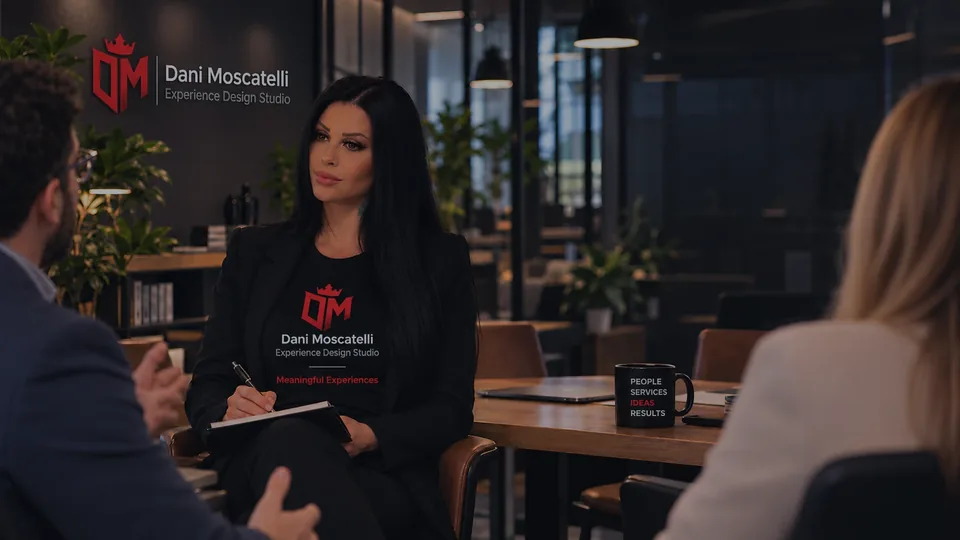
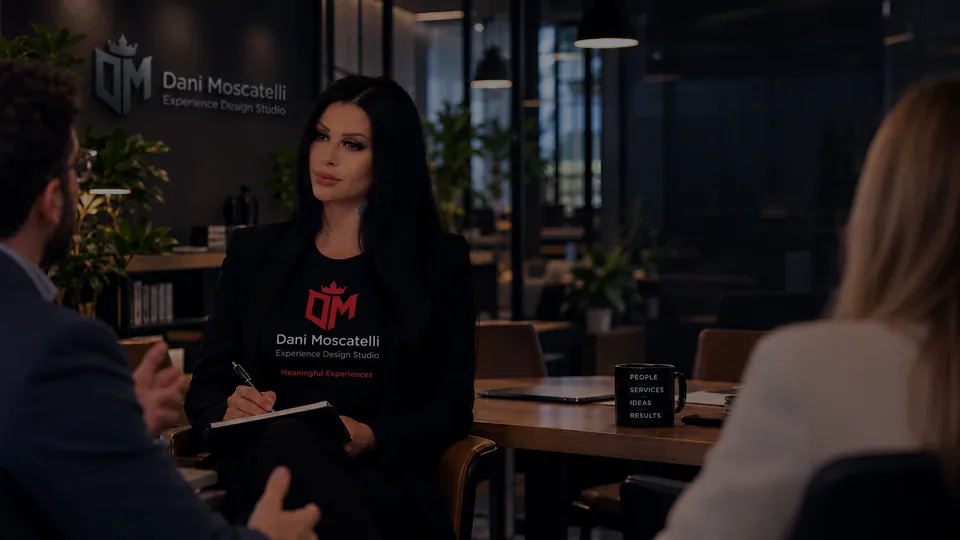
Projeto Piloto: nova foto do hero e divisão no modelo do Experience Intelligence 3 (#89)
Claude-Session: https://claude.ai/code/session_01XRPixHnGB2MQpUnvzRpAUm

diff --git a/projeto-piloto/index.html b/projeto-piloto/index.html
@@ -50,7 +50,7 @@
     <span aria-hidden="true" class="rolar-seta w-10 h-10 rounded-full border border-white/50 bg-white/10 backdrop-blur-sm flex items-center justify-center group-hover:bg-white/20 transition-colors"><svg class="w-5 h-5" fill="none" stroke="currentColor" stroke-linecap="round" stroke-linejoin="round" stroke-width="2" viewBox="0 0 24 24"><path d="M19 9l-7 7-7-7"></path></svg></span>
   </a>
 </section>
-<section class="transicao transicao-sobre relative overflow-hidden pt-16 sm:pt-24 pb-28 sm:pb-40" id="sobre-o-programa" aria-labelledby="sobre-titulo"><div aria-hidden="true" class="fundo-gradiente"><span></span><span></span><span></span></div><div class="relative max-w-7xl mx-auto px-4 sm:px-6 lg:px-8">
+<div class="divisao-hero"><div class="divisao-hero-cartao"><section class="transicao transicao-sobre relative overflow-hidden pt-16 sm:pt-24 pb-28 sm:pb-40" id="sobre-o-programa" aria-labelledby="sobre-titulo"><div aria-hidden="true" class="fundo-gradiente"><span></span><span></span><span></span></div><div class="relative max-w-7xl mx-auto px-4 sm:px-6 lg:px-8">
   <div class="rv-cabecalho max-w-3xl mx-auto text-center mb-16">
     <p class="inline-flex items-center gap-2 px-3.5 py-1.5 rounded-full bg-coral-50 border border-coral-100 text-coral-600 text-xs font-semibold tracking-wide uppercase mb-4">
       <span aria-hidden="true" class="w-1.5 h-1.5 rounded-full bg-coral-600"></span>Sobre o Programa</p>
@@ -79,7 +79,7 @@
     </article>
     <figure class="citacao-equilibrio mt-10 sm:mt-14"><span class="citacao-aspas" aria-hidden="true">“</span><blockquote><p>Sua empresa ganha <span class="text-coral-600">clareza para evoluir</span>. O Studio amplia seu repertório para <span class="text-coral-600">transformar experiências</span>.</p></blockquote></figure>
   </div>
-</div></section>
+</div></section></div></div>
 <section class="transicao transicao-escopo secao-escura relative overflow-hidden pt-16 sm:pt-24 pb-24 sm:pb-36" id="atuacao" aria-labelledby="atuacao-titulo"><svg aria-hidden="true" class="curva-secao absolute left-0 bottom-0 w-full h-12 sm:h-20 lg:h-24 pointer-events-none z-[2]" viewBox="0 0 1440 96" preserveAspectRatio="none"><path fill="#EDF0F5" d="M0 96H1440V72C1080 0 360 0 0 72Z"/></svg><div aria-hidden="true" class="fundo-gradiente fundo-gradiente-escuro"><span></span><span></span><span></span></div><div class="relative max-w-7xl mx-auto px-4 sm:px-6 lg:px-8">
   <div class="rv-cabecalho text-center max-w-3xl mx-auto mb-16">
     <p class="inline-flex items-center gap-2 px-3.5 py-1.5 rounded-full bg-coral-50 border border-coral-100 text-coral-600 text-xs font-semibold tracking-wide uppercase mb-4">

diff --git a/src/projeto-piloto.css b/src/projeto-piloto.css
@@ -259,3 +259,13 @@ main section h2 .text-coral-600, main section h2 span.text-coral-600 { color: #D
 .citacao-equilibrio blockquote { margin: 0; }
 .citacao-equilibrio blockquote p { font-style: italic; font-weight: 700; font-size: 1.25rem; line-height: 1.5; letter-spacing: -0.01em; color: #131A27; }
 @media (min-width: 640px) { .citacao-equilibrio blockquote p { font-size: 1.5rem; } }
+
+/* ---------- Divisão entre o hero e "Sobre o programa" ----------
+   Mesmo modelo da página Experience Intelligence 3: a seção seguinte é um grande cartão branco
+   com cantos arredondados (36/48/56px), recuado das laterais, sobre o fundo escuro que continua
+   do hero até o Escopo. A foto do hero esmaece para o grafite na base para o fundo seguir contínuo. */
+#hero-fundo::after { content: ""; position: absolute; left: 0; right: 0; bottom: 0; height: 160px; background: linear-gradient(to bottom, rgba(19, 26, 39, 0), #131A27); pointer-events: none; }
+.divisao-hero { position: relative; z-index: 1; background: linear-gradient(to bottom, #131A27, #0D1119); padding: 0 .5rem; }
+.divisao-hero-cartao { max-width: 1400px; margin: 0 auto; border-radius: 36px; overflow: hidden; background: #FFFFFF; }
+@media (min-width: 640px) { .divisao-hero { padding: 0 1rem; } .divisao-hero-cartao { border-radius: 48px; } }
+@media (min-width: 1024px) { .divisao-hero { padding: 0 1.5rem; } .divisao-hero-cartao { border-radius: 56px; } }
